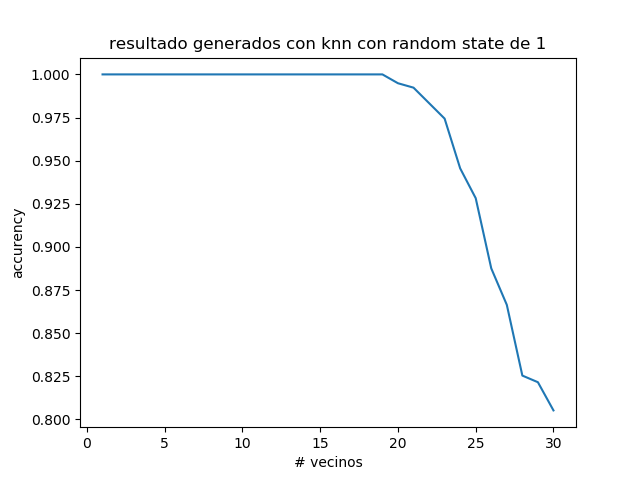
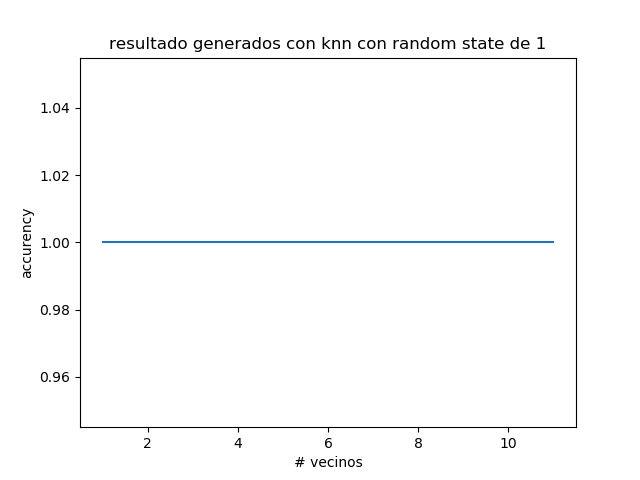
agregar validaciones leaveoneout  y kfold en knn y corregir y agregar resultados de knn

diff --git a/knn.py b/knn.py
@@ -6,23 +6,24 @@ Created on Fri Jun 12 21:43:19 2020
 """
 
 from import_data import get, coeff
-from sklearn.model_selection import train_test_split
+from sklearn.model_selection import train_test_split,LeaveOneOut,KFold
 from sklearn.neighbors import KNeighborsClassifier
 from sklearn.metrics import confusion_matrix
 import matplotlib.pyplot as plt
 import os
 import numpy as np
 
+#%% mostrar el rendimiento del sistema 
+
 if not os.path.exists('resultados/knn'):
     os.makedirs('resultados/knn')
 
 for i in range(3):
 
-    data,target = get()
-    random = i
-    X_train, X_test, y_train, y_test = train_test_split(data, target, random_state=random ,test_size = 0.2)
+    random = i 
+    X_train, X_test, y_train, y_test = get("cross",random)
     
-    k_range = range(1,31)
+    k_range = range(1,13,2)
     acc = []
     print(i)
     sens = []
@@ -73,3 +74,69 @@ for i in range(3):
 
 # sens = tp /(tp + fn)
 # esp =  tn /(tn + fp)
+
+#%% loo
+loo = LeaveOneOut()
+
+data,target = get("data",0)
+knn = KNeighborsClassifier(n_neighbors = 3)
+acc = []
+i = 0
+
+total = loo.get_n_splits(data)
+for train_i,test_i in loo.split(data):
+    
+    print(str((i/total) * 100)+'%')
+    i = i + 1
+    X_train,X_test = data[train_i],data[test_i]
+    y_train,y_test = target[train_i],target[test_i]
+            
+    knn.fit(X_train,y_train)
+    acc.append(knn.score(X_test, y_test))
+    
+plt.figure()
+plt.title("resultado generados con knn y leave one out " + str(random))
+plt.xlabel("# iteraciones")
+plt.ylabel('accurency')
+plt.plot(acc)
+plt.show()
+
+
+plt.savefig('resultados/knn/knn_resul loo'+ str(random) +' .png')
+plt.close('all') 
+
+#%% kfold
+knn = KNeighborsClassifier(n_neighbors = 3)
+por = []
+splits = range(2,16)
+
+for i in splits:
+    
+    print(i)
+    kf = KFold(n_splits = i)
+    acc = []
+    
+    for train_i, test_i in kf.split(data):
+        
+        X_train, X_test = data[train_i], data[test_i]
+        y_train, y_test = target[train_i], target[test_i]
+        
+        knn.fit(X_train, y_train)
+        
+        acc.append(knn.score(X_test, y_test))
+    
+    por.append(sum(acc) / len(acc))
+
+plt.figure()
+plt.title("resultado generados con knn y kfold " + str(random))
+plt.xlabel("# splits")
+plt.ylabel('accurency')
+plt.plot(splits , por)
+plt.show()
+
+plt.savefig('resultados/knn/knn_kfold'+ str(random) +' .png')
+plt.close('all') 
+    
+
+
+

diff --git a/import_data.py b/import_data.py
@@ -8,8 +8,9 @@ Created on Fri Jun 12 21:23:58 2020
 import pandas as pd
 import numpy as np
 from sklearn.metrics import confusion_matrix
+from sklearn.model_selection import train_test_split, LeaveOneOut
 
-def get():
+def get(tipo,random):
     
     df = pd.read_csv("my_features_and_labels.csv")
     
@@ -29,8 +30,16 @@ def get():
     for i in range(18):
         
         data[:,i] = d[i]
+        
+    if(tipo == "cross"):
+        
+        X_train, X_test, y_train, y_test = train_test_split(data, target, random_state=random ,test_size = 0.2)
+        return X_train, X_test, y_train, y_test
     
-    return data,target
+    if(tipo == "data"):
+        return data, target
+    
+    
 
 def coeff(X_test , y_test, model):
     
@@ -52,5 +61,3 @@ def coeff(X_test , y_test, model):
     
     return sens,esp
     
-
-

diff --git a/svm.py b/svm.py
@@ -1,0 +1,22 @@
+# -*- coding: utf-8 -*-
+"""
+Created on Mon Jun 15 17:20:44 2020
+
+@author: Matador
+"""
+
+from import_data import get
+from sklearn.svm import SVC
+from sklearn.model_selection import train_test_split
+from sklearn.metrics import confusion_matrix
+import matplotlib.pyplot as plt
+
+data ,target = get()
+X_train, X_test, y_train, y_test = train_test_split(data, target, random_state = 0 ,test_size = 0.2)
+
+
+svm = SVC(degree = i).fit(X_train, y_train)
+y_pred = svm.predict(X_test)
+
+matrix_c = confusion_matrix(y_test, y_pred)
+score.append(svm.score(X_test,y_test))
